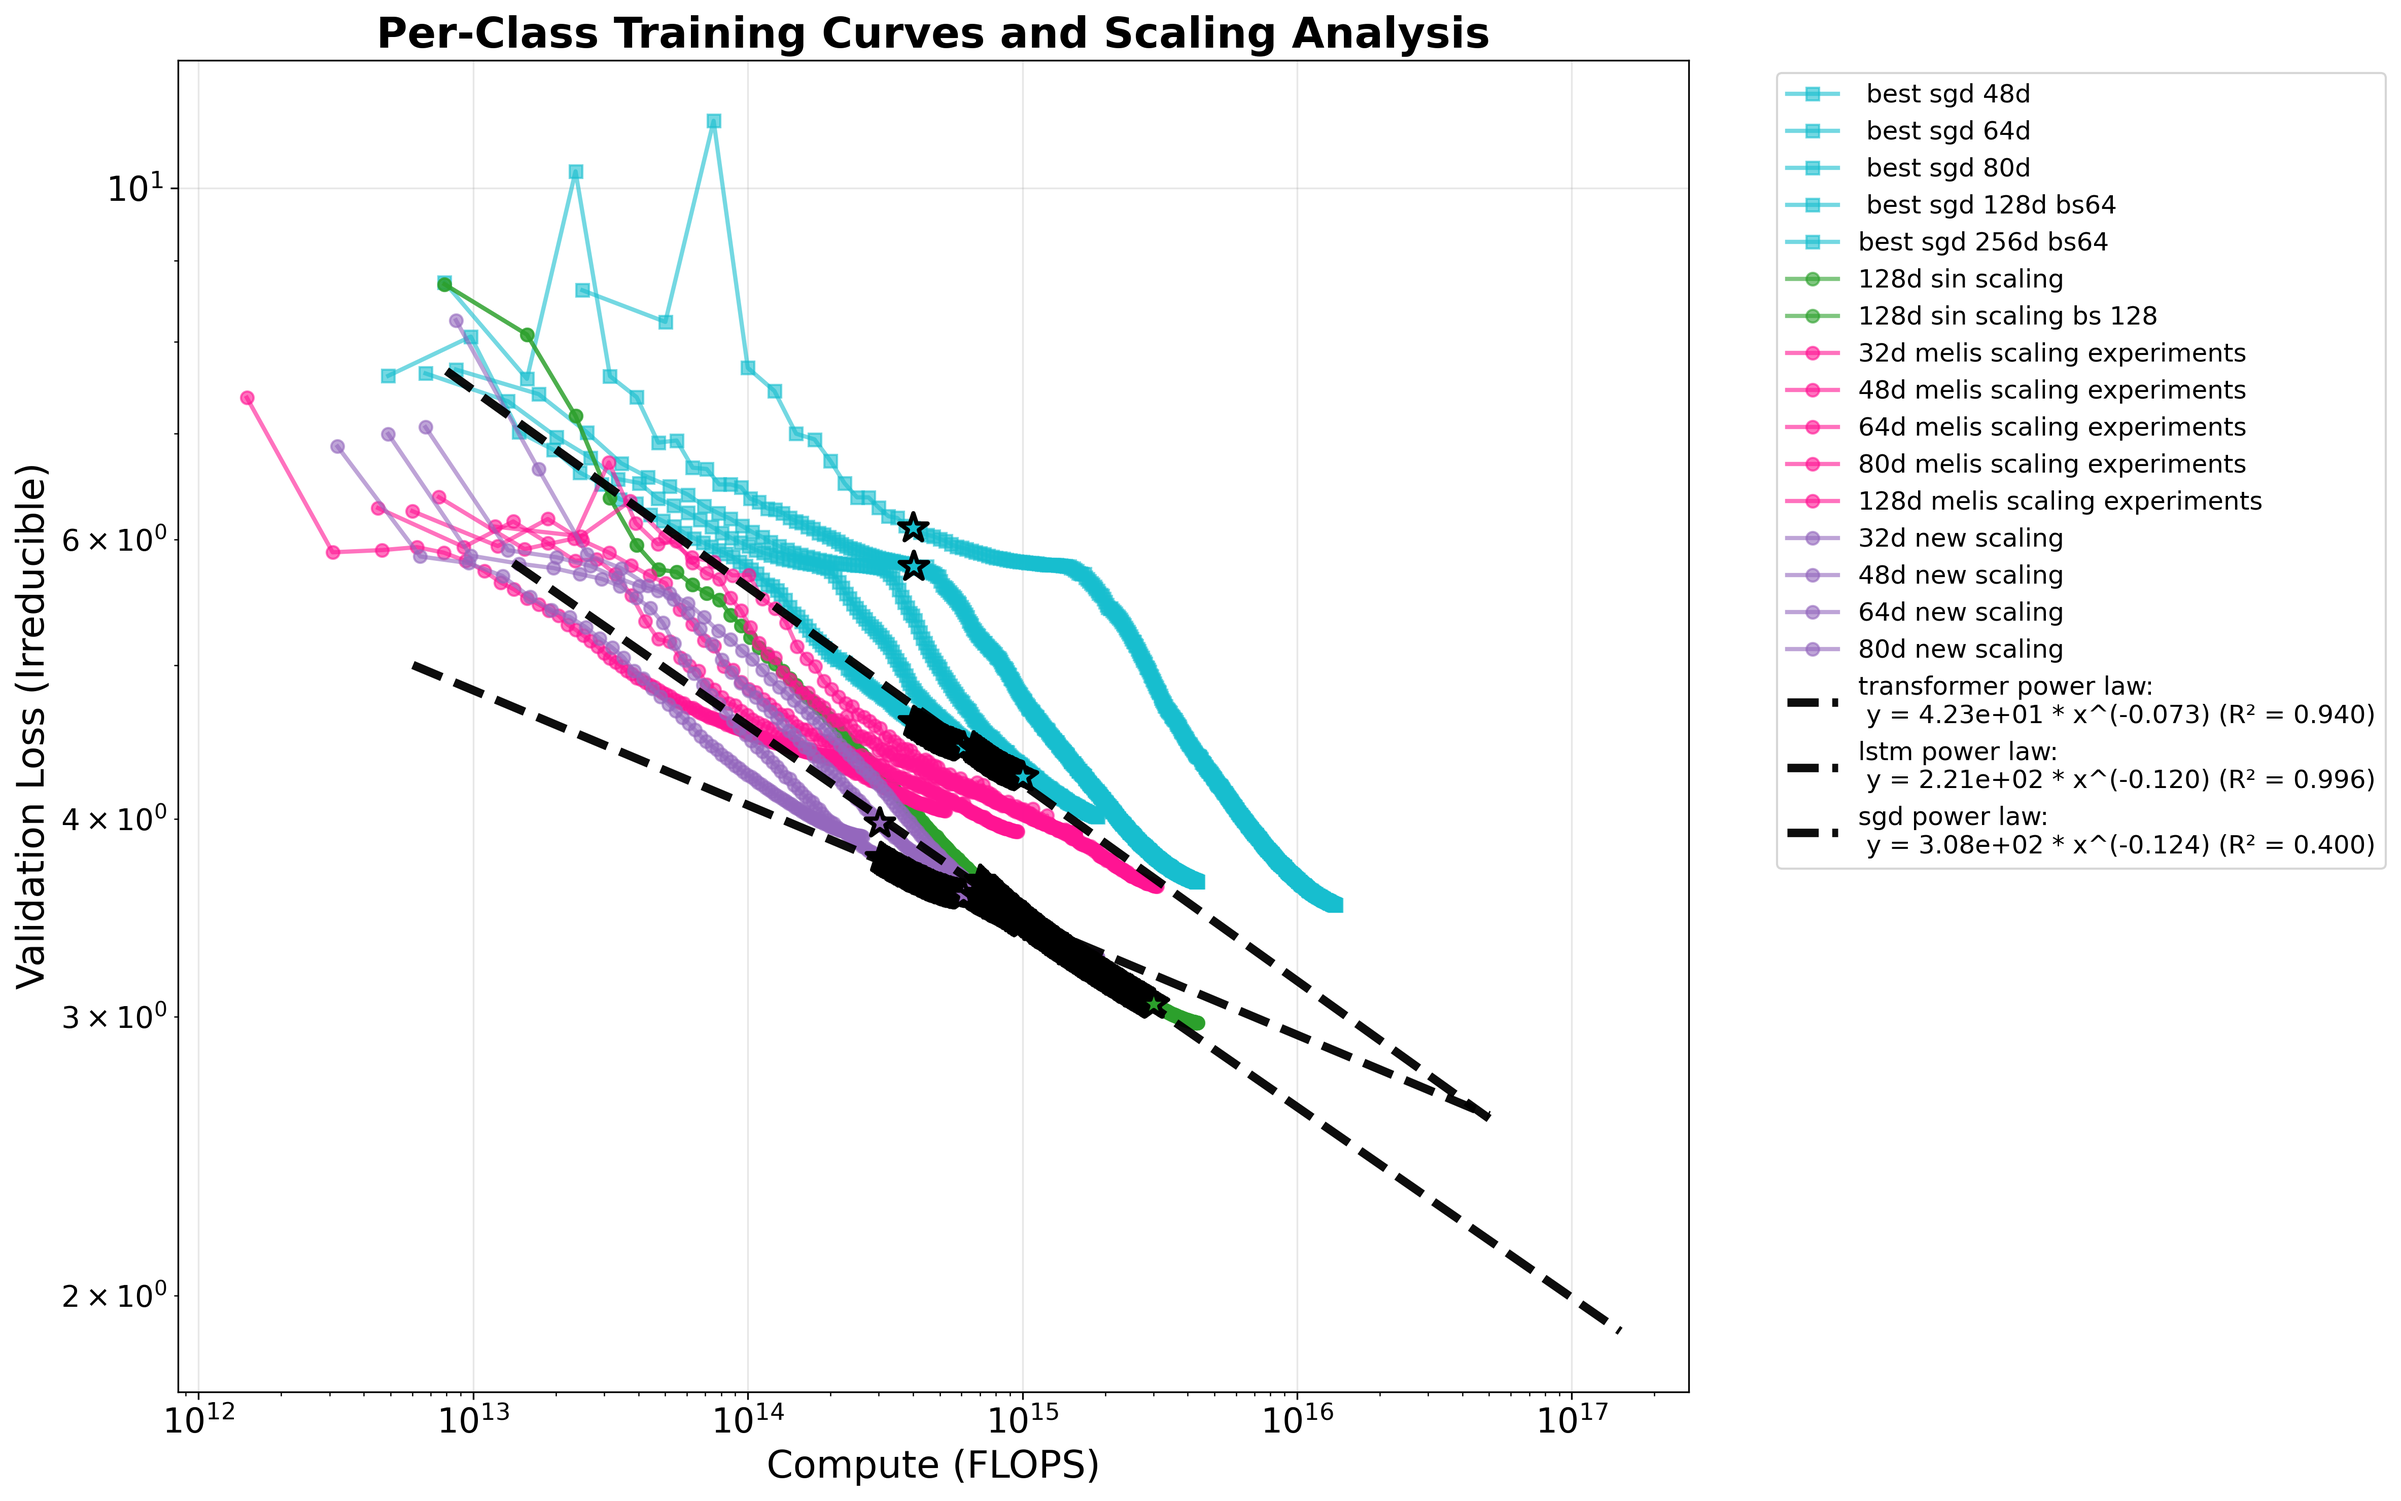
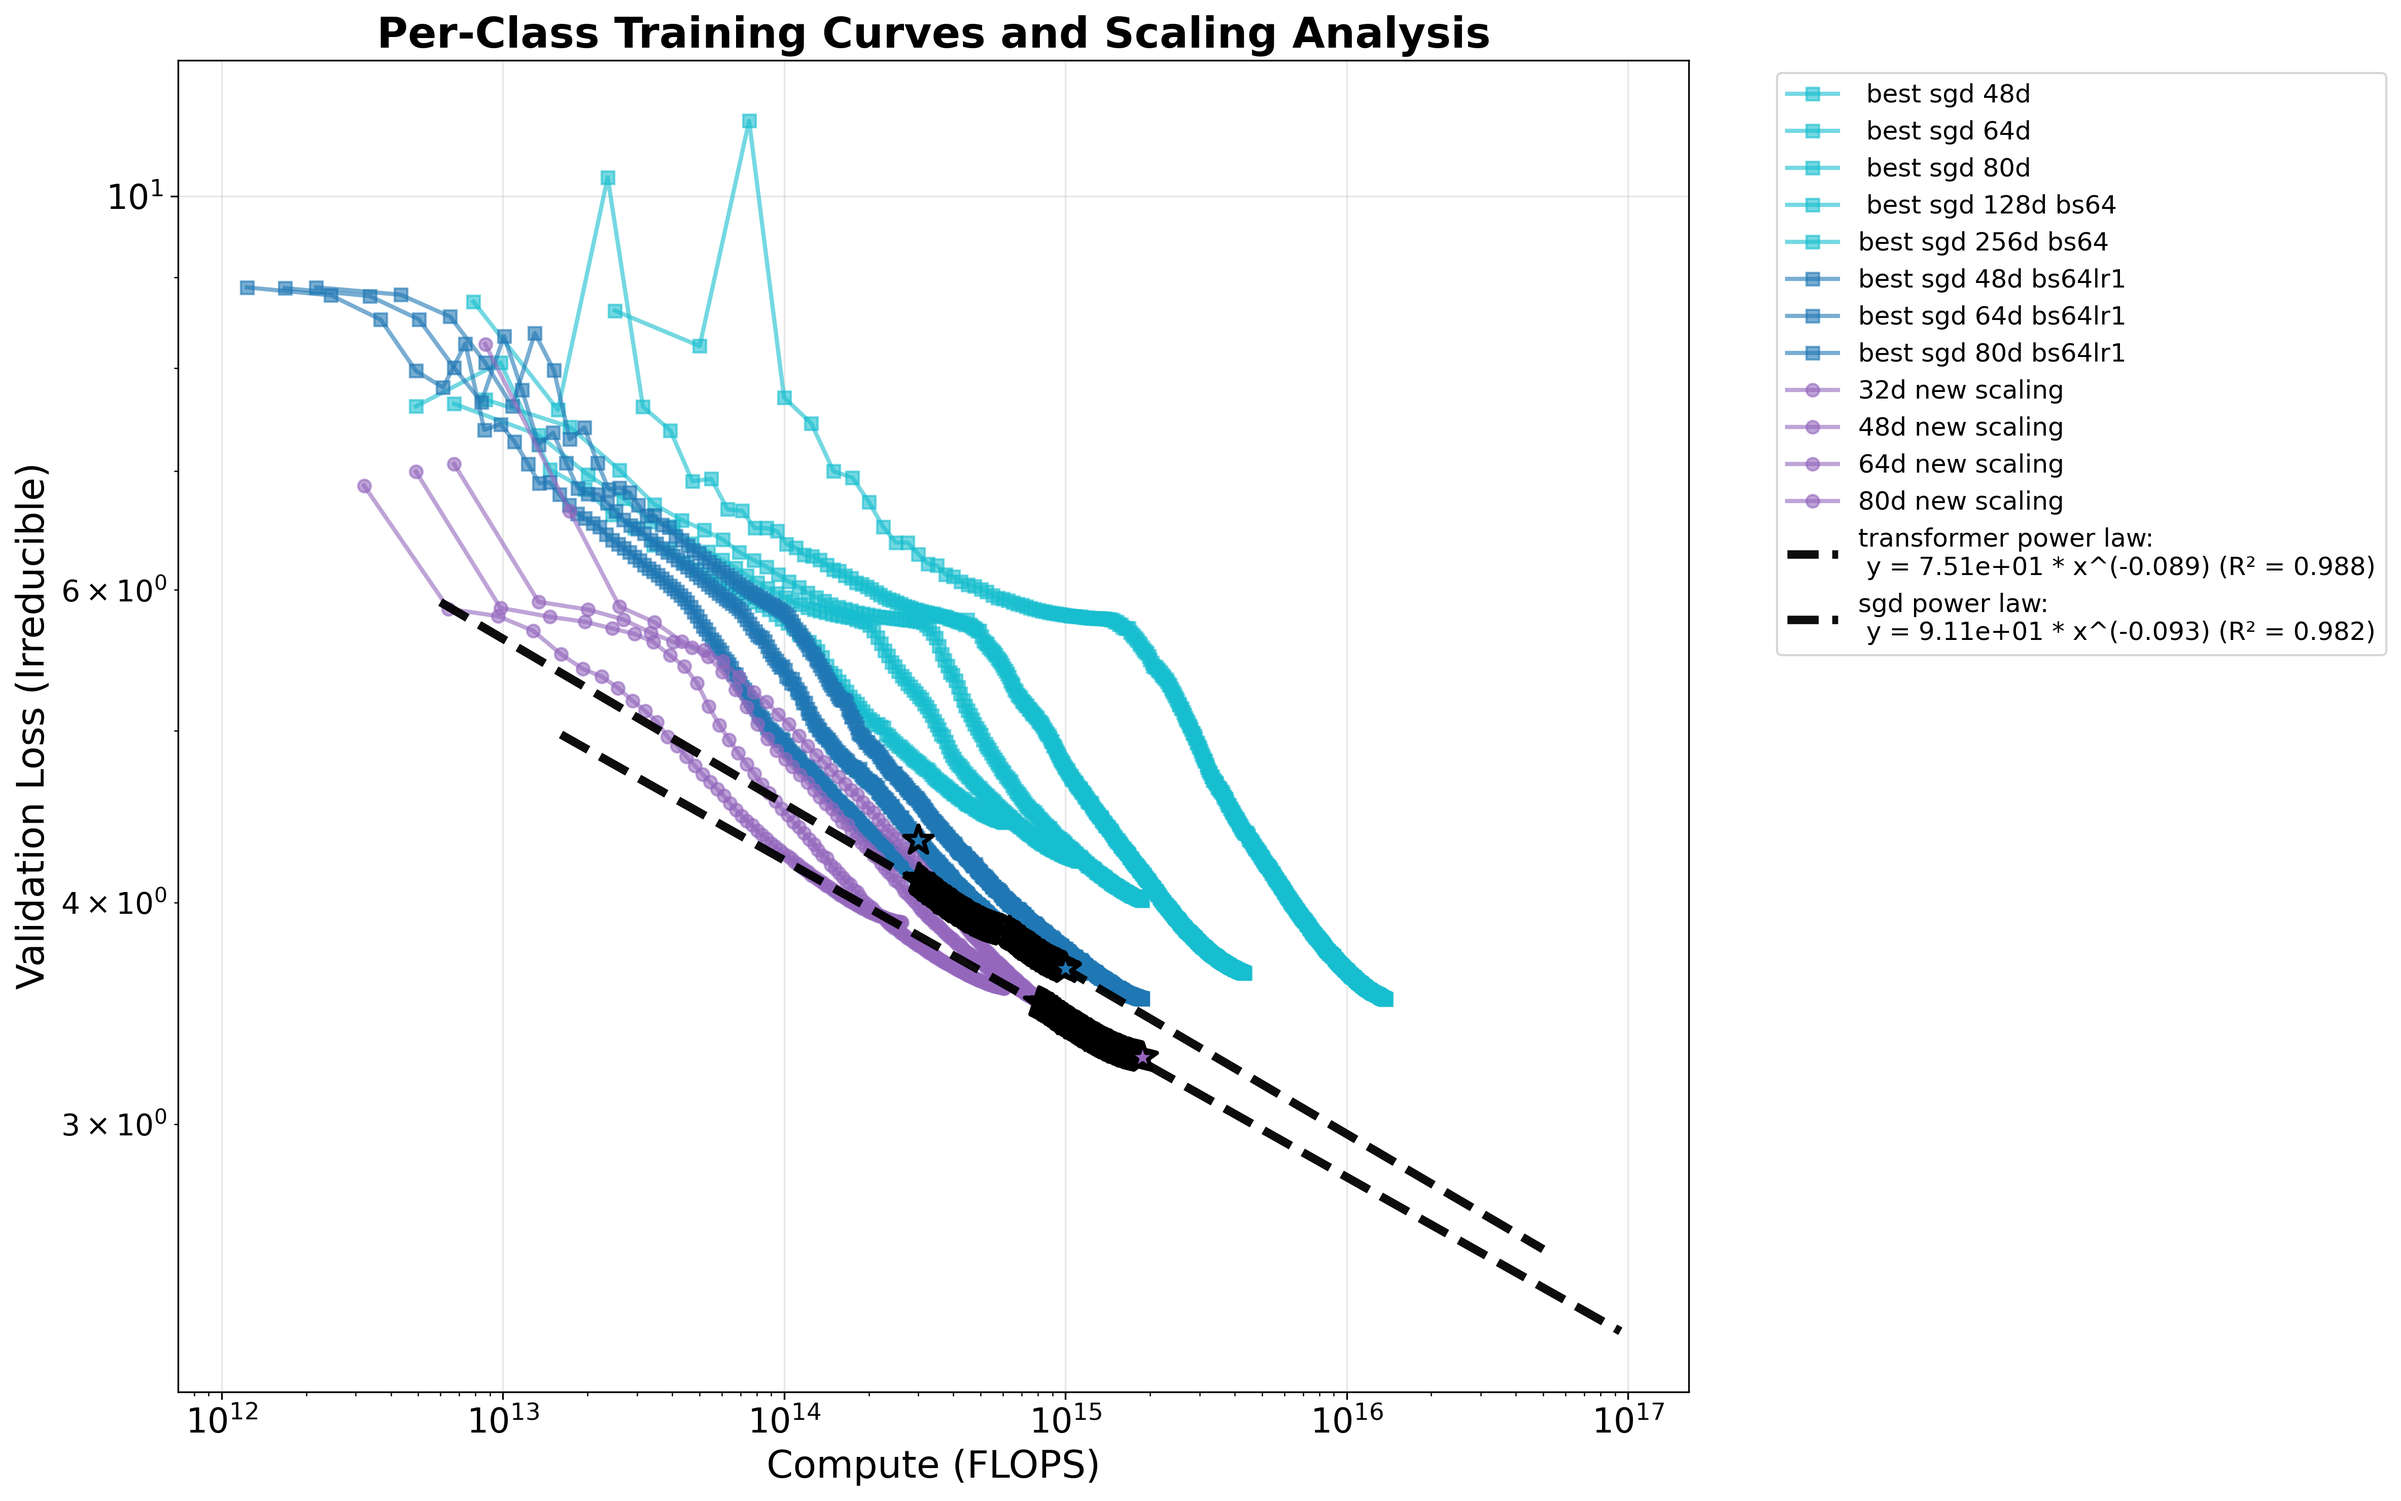
removed some ddp code added non-streaming evals

diff --git a/experimental_analysis/no_color_scale_extensive.py b/experimental_analysis/no_color_scale_extensive.py
@@ -1205,6 +1205,42 @@ if __name__ == "__main__":
             "hidden_dim": 256,
         },
 
+        {
+            "name": "best sgd 48d bs64lr1",
+            "csv_path": "../experimental_data_folder/best_possible_sgd/48d_best_sgdbs64lr1.csv",
+            "marker": "s",
+            "color": "tab:blue",
+            "include_in_in_frontier": False,  # Include in frontier analysis
+            "class": "sgd",
+            "hidden_dim": 48,
+        },
+        {
+            "name": "best sgd 64d bs64lr1",
+            "csv_path": "../experimental_data_folder/best_possible_sgd/64d_best_sgdbs64lr1.csv",
+            "marker": "s",
+            "color": "tab:blue",
+            "include_in_in_frontier": False,  # Include in frontier analysis
+            "class": "sgd",
+            "hidden_dim": 64,
+        },
+        {
+            "name": "best sgd 80d bs64lr1",
+            "csv_path": "../experimental_data_folder/best_possible_sgd/80d_best_sgdbs64lr1.csv",
+            "marker": "s",
+            "color": "tab:blue",
+            "include_in_in_frontier": False,  # Include in frontier analysis
+            "class": "sgd",
+            "hidden_dim": 80,
+        },
+
+
+
+
+
+
+
+
+
         #sinscaling     
 
         #128d sin scaling
@@ -1416,6 +1452,7 @@ if __name__ == "__main__":
             "color": "tab:orange",
             "hidden_dim": 128,
         },
+       
 
 
 
@@ -1539,14 +1576,14 @@ if __name__ == "__main__":
         classes_to_plot=[
             # "optimal_lr_sgd_transformer",
             "transformer",
-            "lstm",
+            # "lstm",
             "sgd",
             # "vanilla_transformer_rmsprop",
         ],
         flop_range_by_class={
-            "transformer": (3 * 1e14, 1e15),
+            "transformer": (8* 1e14, 2*1e15),
             "lstm": (1e14*7, 1e15*3),
-            "sgd": (4 * 1e14, 1e15),
+            "sgd": (3 * 1e14, 1e15),
         },
         extrapolation_factor=50.0,  # Extend trend lines 3x beyond data range
     )
